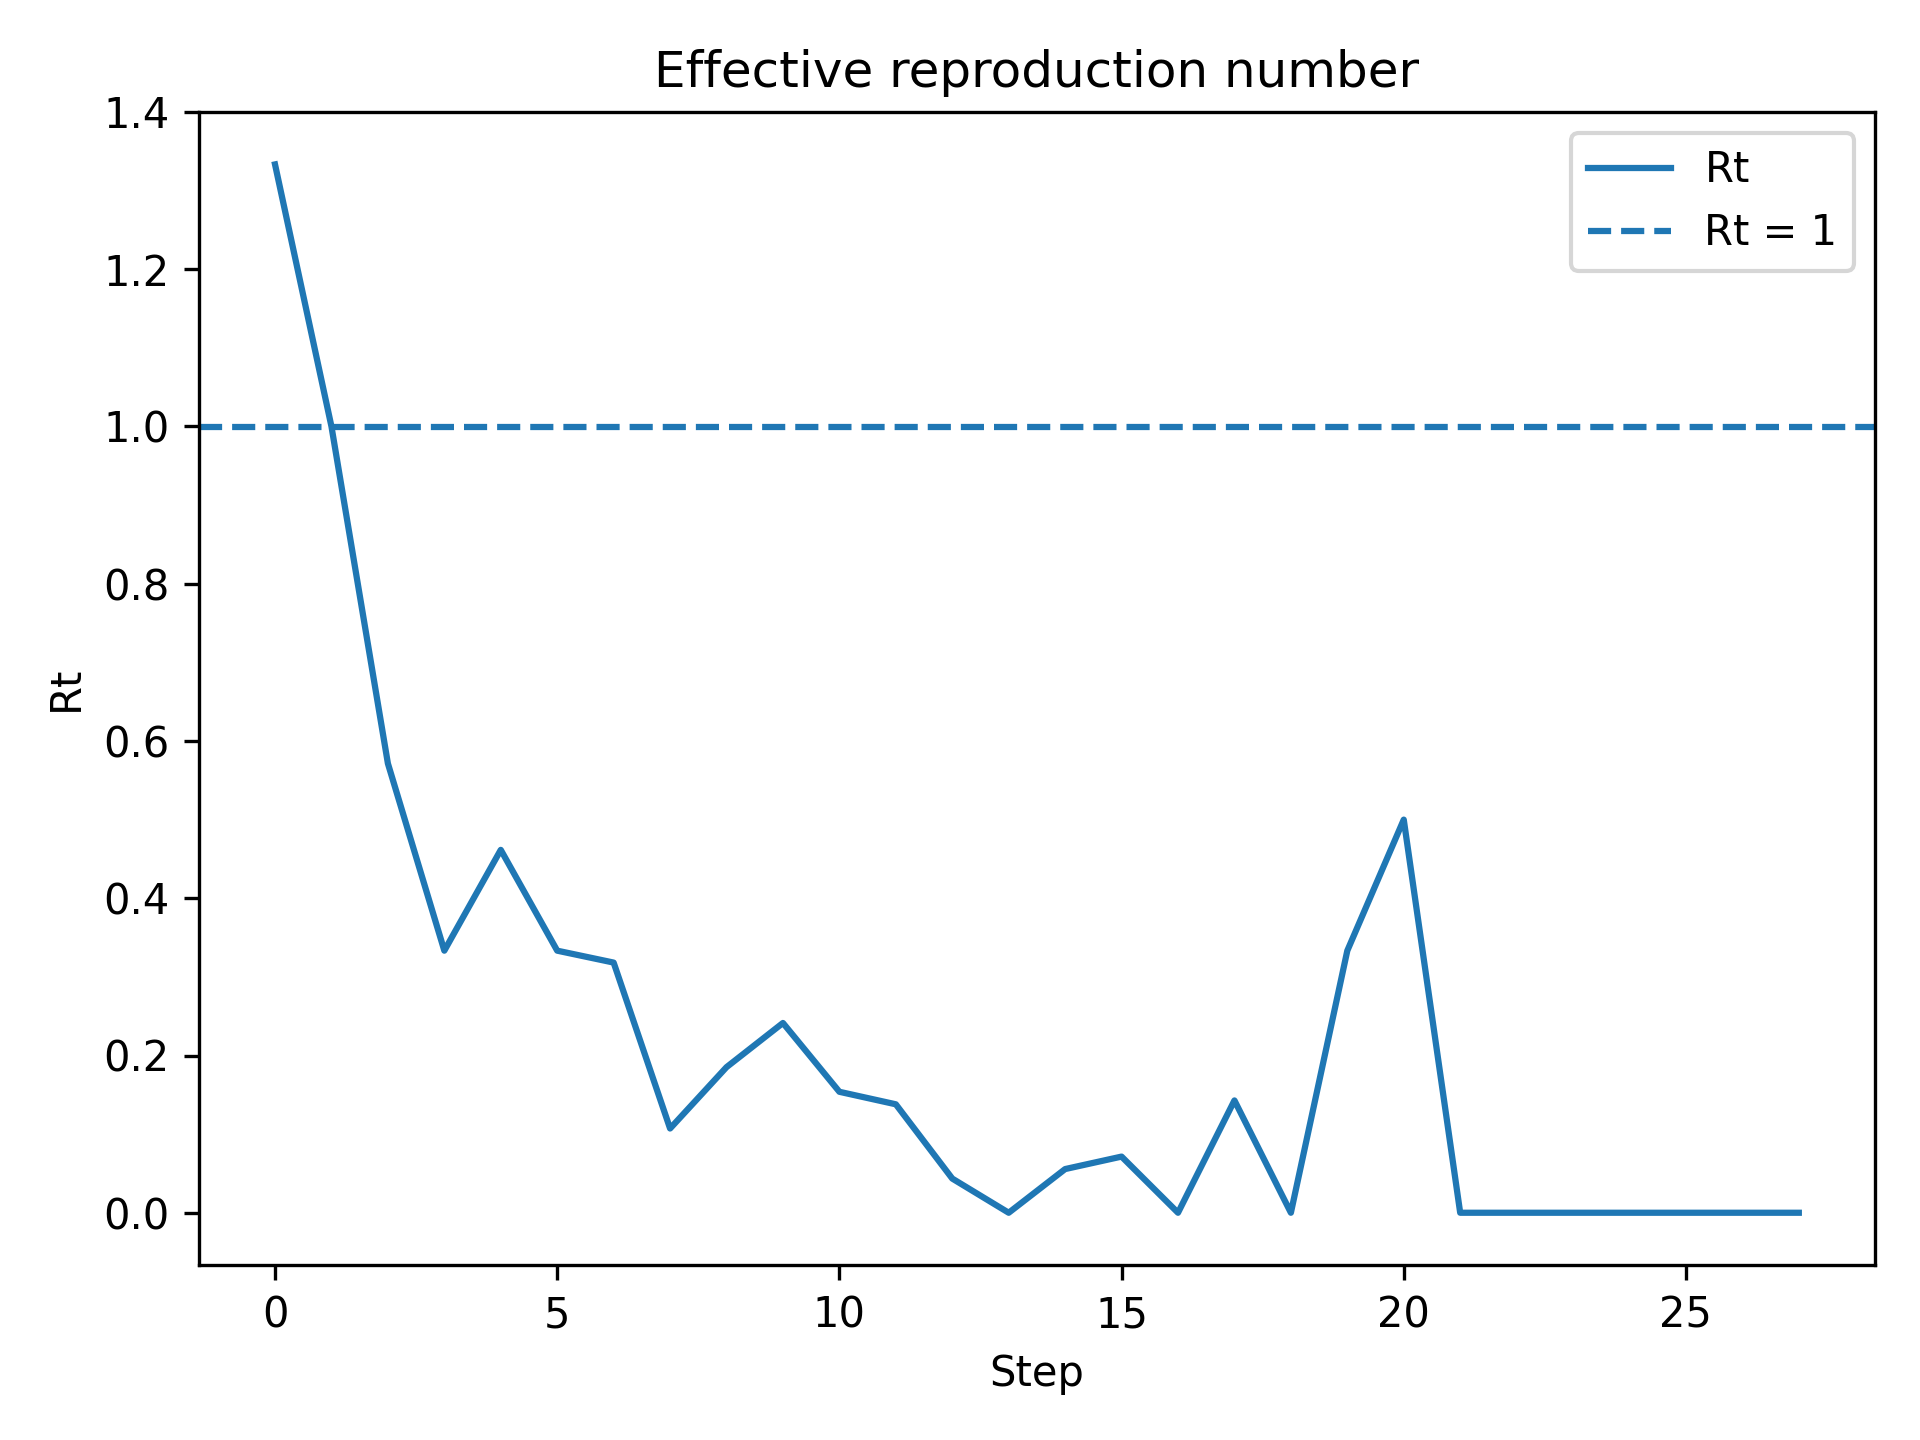
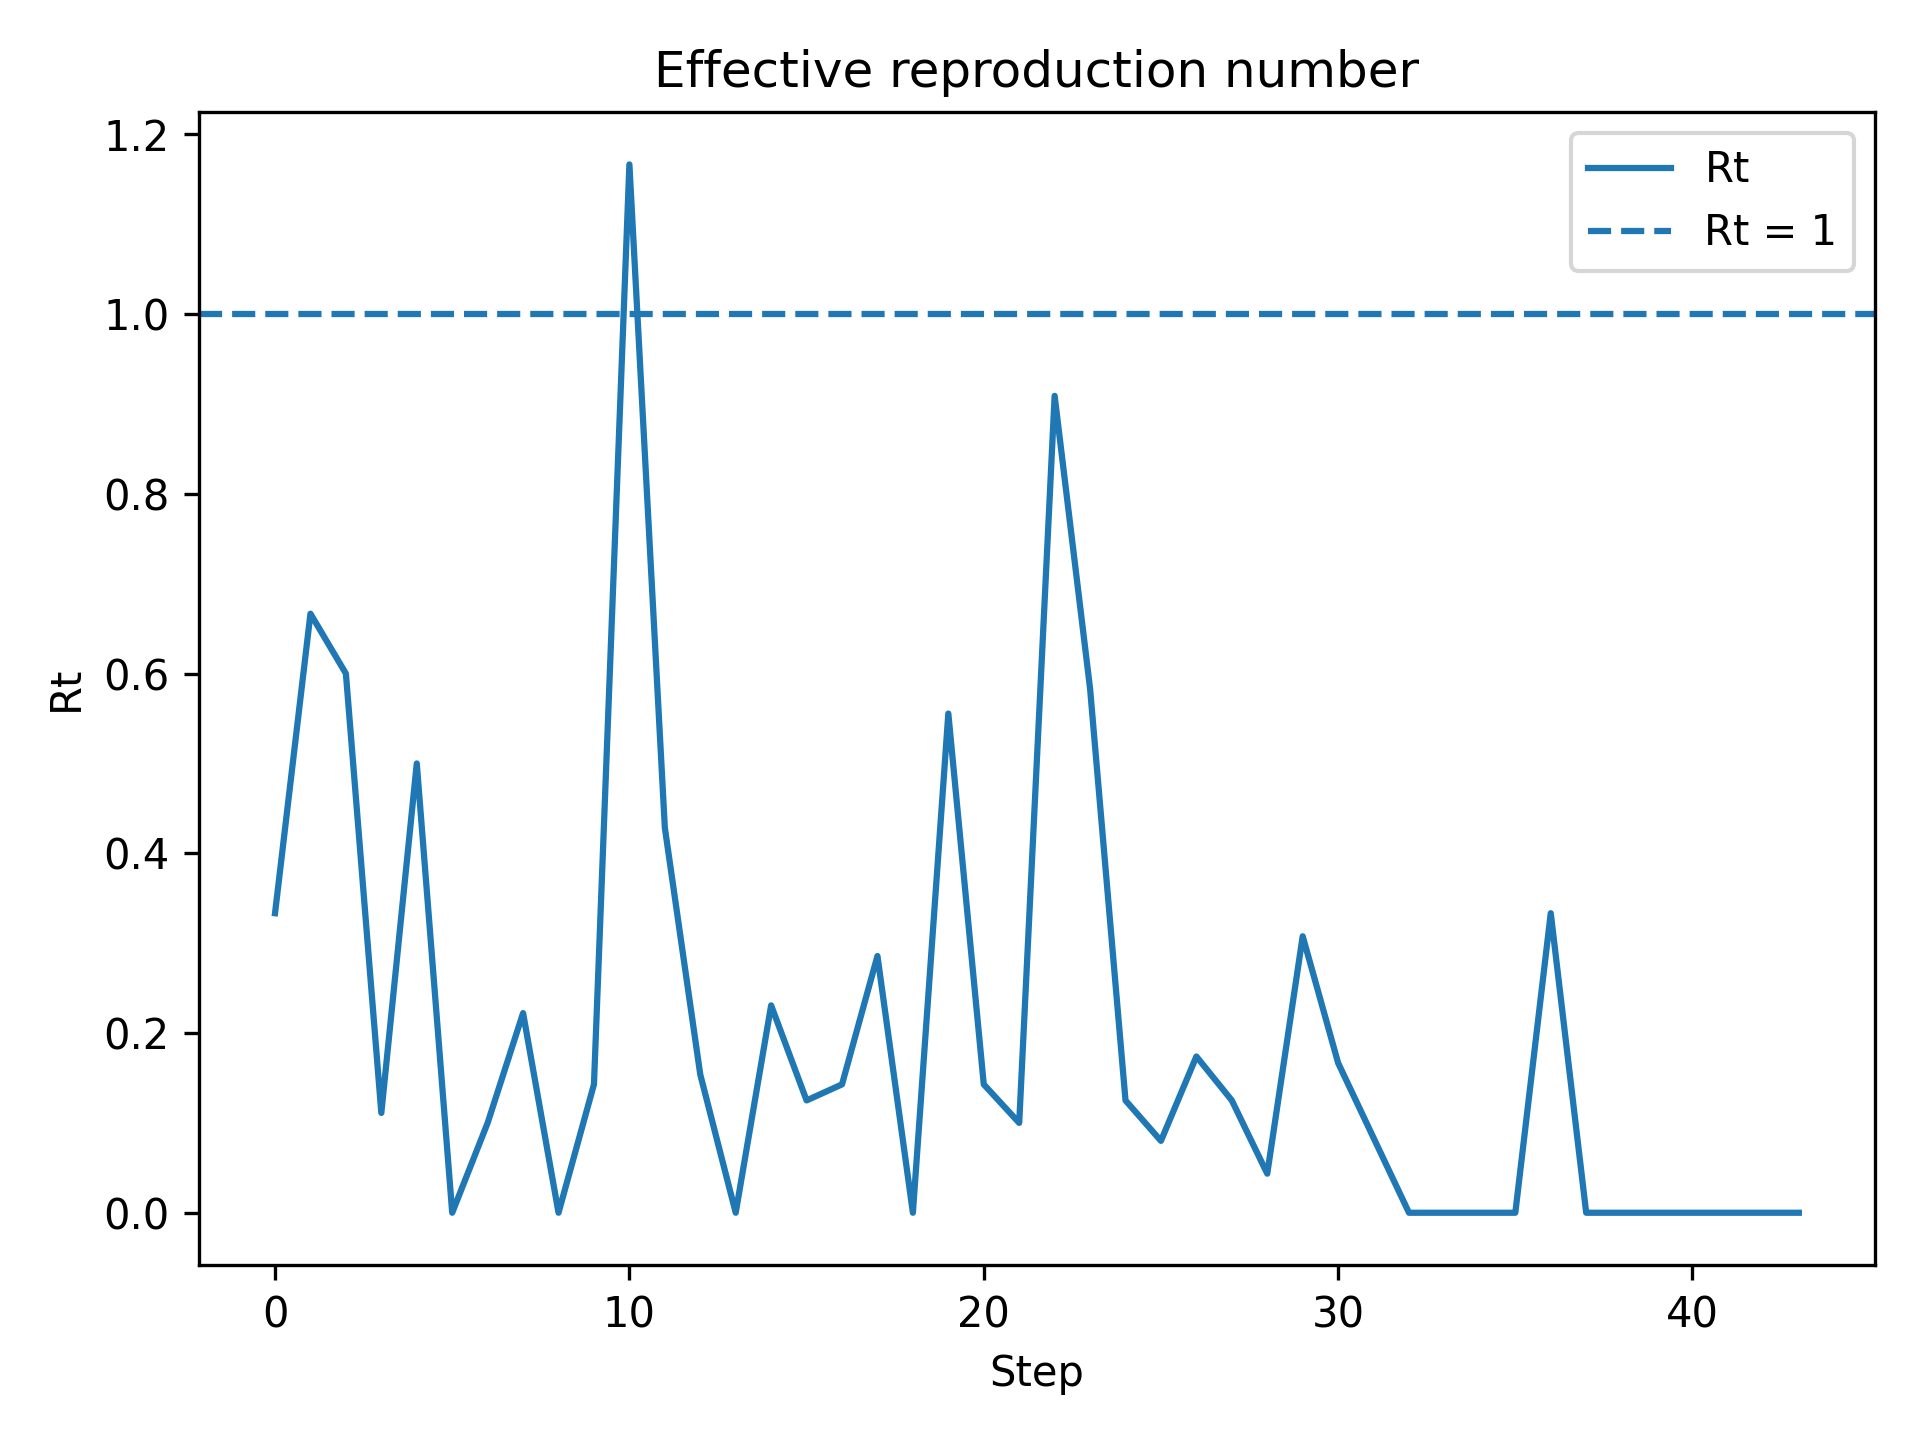
seperate infections curve

diff --git a/run.py b/run.py
@@ -102,12 +102,10 @@ print("Summary saved to outputs/simulation_summary.txt")
 plt.plot(results["Susceptible"], label="Susceptible")
 plt.plot(results["Exposed"], label="Exposed")
 plt.plot(results["Infected"], label="Infected")
+plt.plot(results["Asymptomatic"], label="Asymptomatic")
 plt.plot(results["Recovered"], label="Recovered")
 plt.plot(results["Dead"], label="Dead")
-plt.plot(results["Asymptomatic"], label="Asymptomatic")
 plt.plot(results["Vaccinated"], label="Vaccinated")
-plt.plot(results["ActiveCases"], label="Active cases", linestyle="--")
-plt.plot(results["NewInfections"], label="New infections")
 
 plt.xlabel("Step")
 plt.ylabel("Number of people")
@@ -130,5 +128,22 @@ plt.tight_layout()
 
 plt.savefig("outputs/rt_curve.png", dpi=300)
 print("Rt plot saved to outputs/rt_curve.png")
+
+plt.show()
+
+
+plt.figure()
+
+plt.plot(results["ActiveCases"], label="Active cases")
+plt.plot(results["NewInfections"], label="New infections")
+
+plt.xlabel("Step")
+plt.ylabel("Number of people")
+plt.title("Active and new infections")
+plt.legend()
+plt.tight_layout()
+
+plt.savefig("outputs/infections_curve.png", dpi=300)
+print("Infections plot saved to outputs/infections_curve.png")
 
 plt.show()